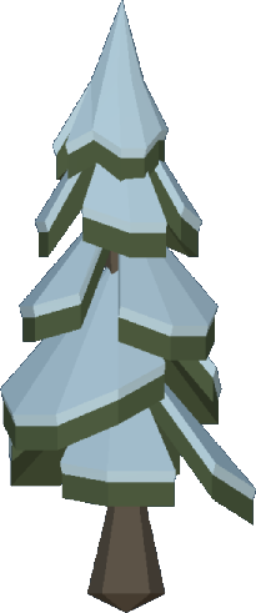
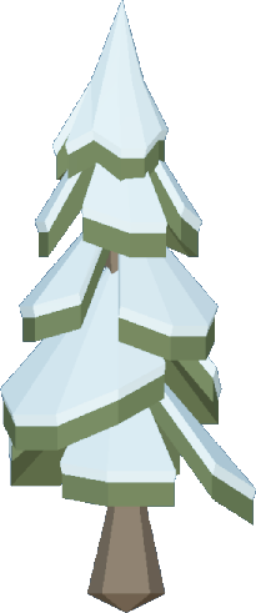
Fixed turret sub-objects not being destroyed.

diff --git a/Assets/_App/Ace of Ages/Terrain/StaticObjectHierarchyDestroyUtility.cs b/Assets/_App/Ace of Ages/Terrain/StaticObjectHierarchyDestroyUtility.cs
@@ -1,0 +1,106 @@
+using Unity.Entities;
+
+/// <summary>
+/// Explicitly destroys all entities in a static-object prefab instance via <see cref="LinkedEntityGroup"/>.
+/// Children are destroyed before the root (reverse buffer order).
+/// </summary>
+public static class StaticObjectHierarchyDestroyUtility
+{
+    /// <summary>
+    /// Returns how many existing entities are in <paramref name="root"/>'s <see cref="LinkedEntityGroup"/>,
+    /// or 1 when the root has no linked buffer.
+    /// </summary>
+    public static int CountLinkedEntities(Entity root, EntityManager entityManager)
+    {
+        if (!entityManager.Exists(root))
+            return 0;
+
+        if (!entityManager.HasBuffer<LinkedEntityGroup>(root))
+            return 1;
+
+        var linkedBuffer = entityManager.GetBuffer<LinkedEntityGroup>(root);
+        if (linkedBuffer.Length <= 1)
+            return 1;
+
+        int count = 0;
+        for (var i = 0; i < linkedBuffer.Length; i++)
+        {
+            if (entityManager.Exists(linkedBuffer[i].Value))
+                count++;
+        }
+
+        return count;
+    }
+
+    /// <summary>
+    /// Queues destruction of every existing entity in the linked group, children first then root.
+    /// </summary>
+    /// <returns>Number of entities queued for destruction.</returns>
+    public static int DestroyHierarchy(Entity root, EntityCommandBuffer ecb, EntityManager entityManager)
+    {
+        if (!entityManager.Exists(root))
+            return 0;
+
+        if (!entityManager.HasBuffer<LinkedEntityGroup>(root))
+        {
+            ecb.DestroyEntity(root);
+            return 1;
+        }
+
+        var linkedBuffer = entityManager.GetBuffer<LinkedEntityGroup>(root);
+        if (linkedBuffer.Length <= 1)
+        {
+            ecb.DestroyEntity(root);
+            return 1;
+        }
+
+        var destroyed = 0;
+        for (var i = linkedBuffer.Length - 1; i >= 0; i--)
+        {
+            var e = linkedBuffer[i].Value;
+            if (!entityManager.Exists(e))
+                continue;
+
+            ecb.DestroyEntity(e);
+            destroyed++;
+        }
+
+        return destroyed;
+    }
+
+    /// <summary>
+    /// Immediately destroys every existing entity in the linked group, children first then root.
+    /// </summary>
+    /// <returns>Number of entities destroyed.</returns>
+    public static int DestroyHierarchyImmediate(Entity root, EntityManager entityManager)
+    {
+        if (!entityManager.Exists(root))
+            return 0;
+
+        if (!entityManager.HasBuffer<LinkedEntityGroup>(root))
+        {
+            entityManager.DestroyEntity(root);
+            return 1;
+        }
+
+        var linkedBuffer = entityManager.GetBuffer<LinkedEntityGroup>(root);
+        if (linkedBuffer.Length <= 1)
+        {
+            entityManager.DestroyEntity(root);
+            return 1;
+        }
+
+        var destroyed = 0;
+        for (var i = linkedBuffer.Length - 1; i >= 0; i--)
+        {
+            var e = linkedBuffer[i].Value;
+            if (!entityManager.Exists(e))
+                continue;
+
+            entityManager.DestroyEntity(e);
+            destroyed++;
+        }
+
+        return destroyed;
+    }
+}

diff --git a/Assets/_App/Ace of Ages/Terrain/TileSpawningSystem.cs b/Assets/_App/Ace of Ages/Terrain/TileSpawningSystem.cs
@@ -196,8 +196,8 @@ public partial struct TileSpawningSystem : ISystem
         var spawnedObjects = state.EntityManager.GetBuffer<SpawnedStaticObjectReference>(tileEntity);
         foreach (var objectRef in spawnedObjects)
         {
-            if (state.EntityManager.Exists(objectRef.objectEntity))
-                ecb.DestroyEntity(objectRef.objectEntity);
+            StaticObjectHierarchyDestroyUtility.DestroyHierarchy(
+                objectRef.objectEntity, ecb, state.EntityManager);
         }
     }
 
@@ -233,14 +233,29 @@ public partial struct TileSpawningSystem : ISystem
             if (destroyed >= budget)
                 continue;
 
-            for (int i = buffer.Length - 1; i >= 0 && destroyed < budget; i--)
+            for (int i = buffer.Length - 1; i >= 0; i--)
             {
+                if (destroyed >= budget)
+                    break;
+
                 var objectEntity = buffer[i].objectEntity;
-                if (em.Exists(objectEntity))
+                if (!em.Exists(objectEntity))
                 {
-                    ecb.DestroyEntity(objectEntity);
-                    destroyed++;
+                    buffer.RemoveAt(i);
+                    continue;
                 }
+
+                int groupCount = StaticObjectHierarchyDestroyUtility.CountLinkedEntities(objectEntity, em);
+                if (groupCount == 0)
+                {
+                    buffer.RemoveAt(i);
+                    continue;
+                }
+
+                if (destroyed + groupCount > budget)
+                    continue;
+
+                destroyed += StaticObjectHierarchyDestroyUtility.DestroyHierarchy(objectEntity, ecb, em);
                 buffer.RemoveAt(i);
             }
 

diff --git a/Assets/_App/Ace of Ages/Terrain/TerrainMeshGenerationSystem.cs b/Assets/_App/Ace of Ages/Terrain/TerrainMeshGenerationSystem.cs
@@ -428,8 +428,8 @@ public partial struct TerrainMeshCompleteSystem : ISystem
                             for (int objIdx = spawnedObjects.Length - 1; objIdx >= 0; objIdx--)
                             {
                                 var objectEntity = spawnedObjects[objIdx].objectEntity;
-                                if (state.EntityManager.Exists(objectEntity))
-                                    state.EntityManager.DestroyEntity(objectEntity);
+                                StaticObjectHierarchyDestroyUtility.DestroyHierarchyImmediate(
+                                    objectEntity, state.EntityManager);
                                 spawnedObjects.RemoveAt(objIdx);
                             }
                         }
